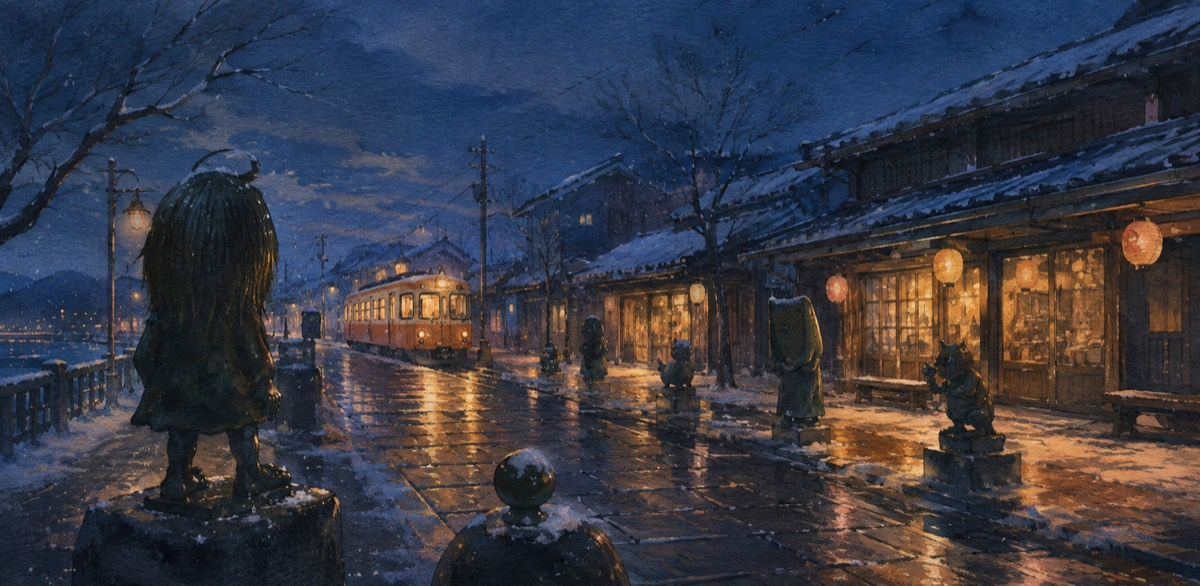
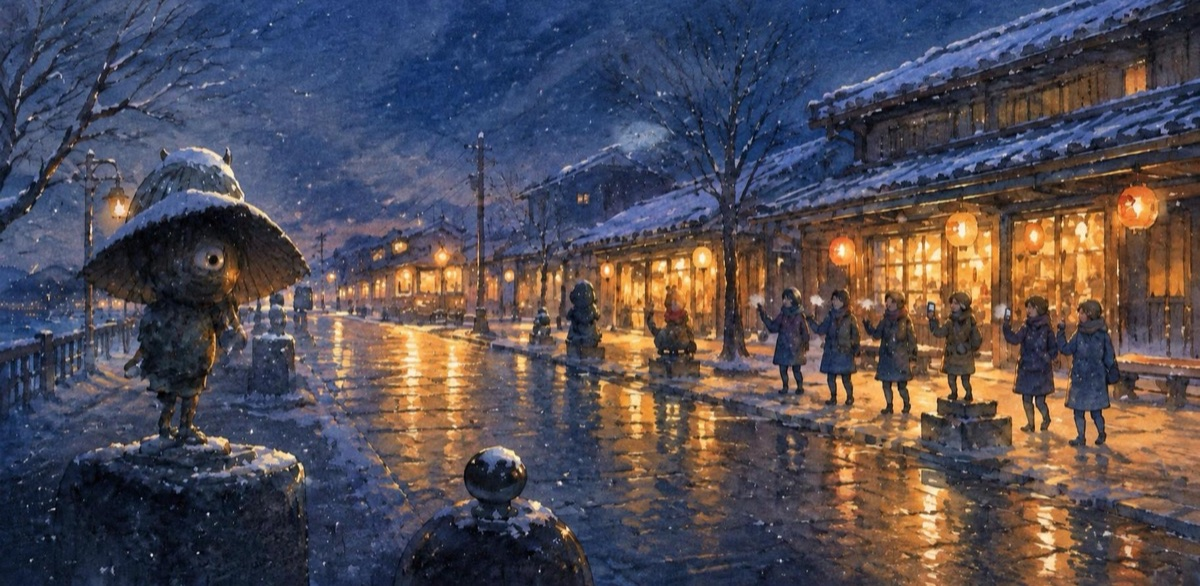
feat: 全部插圖改為旅遊廣告風水彩主視覺
- 主視覺與 Day 1–8 共 9 張以 draw 技能重繪：金色光線、冷暖對比與旅伴情緒瞬間
- Day 2 改為輕裝旅程意象、Day 6 改為比翼入母屋造本殿與長迴廊，對齊現行行程
- Day 1 前景改為原創からかさ小僧銅像；Day 4、Day 7 人物移到右側，避開標題文字
- 尺寸維持原樣，更新替代文字；Day 4 手機裁切位置改為 72%

diff --git a/trip_discussion.html b/trip_discussion.html
@@ -272,7 +272,7 @@
       #day-panel-4 .day4-title { font-size: 2.55rem; }
       #day-panel-4 .day4-stay { max-width: none; }
       #day-panel-4 .day4-hero { aspect-ratio: 4 / 3; margin-bottom: 1rem; }
-      #day-panel-4 .day4-hero img { object-position: 58% center; }
+      #day-panel-4 .day4-hero img { object-position: 72% center; }
       #day-panel-4 .day4-at-a-glance { grid-template-columns: 1fr; gap: 1rem; margin-bottom: 2.1rem; padding: 1rem; }
       #day-panel-4 .day4-timeline { grid-template-columns: repeat(3, minmax(0, 1fr)); }
       #day-panel-4 .day4-moment { min-height: 4.65rem; padding: .45rem .45rem .2rem; border-bottom: 1px solid rgba(16,46,61,.18); }
@@ -395,7 +395,7 @@
 
   <!-- Winter journey hero -->
   <header class="travel-hero">
-    <img class="hero-image" src="assets/sanin-winter-journey-hero-sunlit.jpg" width="1536" height="1024" fetchpriority="high" alt="陽光下，橘色列車沿著積雪山陰海岸行駛，前方是碧海與溫泉聚落">
+    <img class="hero-image" src="assets/sanin-winter-journey-hero-sunlit.jpg" width="1536" height="1024" fetchpriority="high" alt="朝陽金光灑在閃耀的日本海，一列透出暖燈的白色列車沿著積雪海岸前行，遠方是松林沙洲與冒著蒸氣的溫泉小鎮">
     <div class="hero-content">
       <p class="hero-eyebrow">A companion-made winter route · 2027</p>
       <h1 class="hero-title">冬日山陰<br>海之京都・山陽</h1>
@@ -523,7 +523,7 @@
       </section>
 
       <figure class="editorial-hero editorial-reveal editorial-delay-1">
-        <img src="assets/day-illustrations/day-01-sakaiminato-yokai-street.jpg" width="1200" height="586" loading="eager" decoding="async" alt="冬夜積雪的境港妖怪街，暖色街燈、地方列車與妖怪雕像剪影交織在濕亮的石板路上">
+        <img src="assets/day-illustrations/day-01-sakaiminato-yokai-street.jpg" width="1200" height="586" loading="eager" decoding="async" alt="細雪的境港妖怪街冬夜，暖色燈籠映在濕亮石板路上，六位旅伴在妖怪銅像旁笑著拍照">
         <figcaption class="editorial-hero-caption"><p>First night in san'in</p><h3>晚餐後，才是妖怪的時間</h3></figcaption>
       </figure>
 
@@ -792,7 +792,7 @@
       </section>
 
       <figure class="editorial-hero editorial-reveal editorial-delay-1">
-        <img src="assets/day-illustrations/day-02-sanin-rail-journey.jpg" width="1200" height="658" loading="lazy" decoding="async" alt="冬季的山陰海岸旁，一列地方列車駛過雪景車站，旅人提著行李走向月台">
+        <img src="assets/day-illustrations/day-02-sanin-rail-journey.jpg" width="1200" height="658" loading="lazy" decoding="async" alt="黃昏金光下，一列透出暖燈的白色柴油列車駛過日本海沿岸的高架鐵橋，車窗裡的旅伴望向浪花與雪岸">
         <figcaption class="editorial-hero-caption"><p>Railway to kinosaki</p><h3>窗外是冬海，終點是溫泉</h3></figcaption>
       </figure>
 
@@ -1054,7 +1054,7 @@
       </section>
 
       <figure class="day3-hero day3-reveal day3-delay-1">
-        <img src="assets/day-illustrations/day-03-kinosaki-onsen.jpg" width="1200" height="568" loading="lazy" decoding="async" alt="雪夜的城崎溫泉，兩名穿浴衣的旅人在石橋上散步，溫泉蒸氣與旅館燈火映在運河上">
+        <img src="assets/day-illustrations/day-03-kinosaki-onsen.jpg" width="1200" height="568" loading="lazy" decoding="async" alt="雪夜的城崎溫泉，一對撐紅色和傘的浴衣旅人站在石橋上，溫泉蒸氣與旅館燈火映在柳樹運河上">
         <figcaption class="day3-hero-caption"><p>Steam, snow and a slower hour</p><h3>一座湯，就是今天的主角</h3></figcaption>
       </figure>
 
@@ -1327,7 +1327,7 @@
       </section>
 
       <figure class="day4-hero day4-reveal day4-delay-1">
-        <img src="assets/day-illustrations/day-04-amanohashidate.jpg" width="1200" height="600" loading="lazy" decoding="async" alt="從高處眺望雪覆松林的天橋立與靛藍海灣，海上有航行中的小船">
+        <img src="assets/day-illustrations/day-04-amanohashidate.jpg" width="1200" height="600" loading="lazy" decoding="async" alt="從展望台眺望金色光束下的天橋立松林沙洲，兩位旅伴在欄杆邊張開雙臂、彎腰倒看風景">
         <figcaption class="day4-hero-caption"><p>The inland sea, in winter</p><h3>留在天橋立看飛龍觀</h3></figcaption>
       </figure>
 
@@ -1560,7 +1560,7 @@
       </section>
 
       <figure class="editorial-hero editorial-reveal editorial-delay-1">
-        <img src="assets/day-illustrations/day-05-tottori-sand-dunes.jpg" width="1200" height="658" loading="lazy" decoding="async" alt="冬雲下的鳥取砂丘，兩名旅人沿著風紋沙脊前行，雪覆的沙丘延伸到海邊">
+        <img src="assets/day-illustrations/day-05-tottori-sand-dunes.jpg" width="1200" height="658" loading="lazy" decoding="async" alt="雲隙金光灑落的鳥取砂丘，旅伴們登上沙丘稜線、張開雙臂迎風，身後一串腳印延伸到前景">
         <figcaption class="editorial-hero-caption"><p>A white line across the dune</p><h3>入口短走，看見冬日砂丘</h3></figcaption>
       </figure>
 
@@ -1815,7 +1815,7 @@
       </section>
 
       <figure class="editorial-hero editorial-reveal editorial-delay-1">
-        <img src="assets/day-illustrations/day-06-kibitsu-shrine-corridor.jpg" width="1200" height="600" loading="lazy" decoding="async" alt="雪覆庭園旁的吉備津神社本殿與木造長迴廊，旅人沿著石徑前行">
+        <img src="assets/day-illustrations/day-06-kibitsu-shrine-corridor.jpg" width="1200" height="600" loading="lazy" decoding="async" alt="午後金色陽光斜射進吉備津神社向遠方延伸的木造長迴廊，兩位旅伴並肩前行，左側是比翼入母屋造本殿">
         <figcaption class="editorial-hero-caption"><p>Shrine, snow, corridor</p><h3>早餐後，走向吉備津長迴廊</h3></figcaption>
       </figure>
 
@@ -2005,7 +2005,7 @@
       </section>
 
       <figure class="editorial-hero editorial-reveal editorial-delay-1">
-        <img src="assets/day-illustrations/day-07-kurashiki-canal.jpg" width="1200" height="800" loading="lazy" decoding="async" alt="黃昏的倉敷美觀地區運河，白壁倉庫、垂柳與一艘點著燈的小舟倒映在水面">
+        <img src="assets/day-illustrations/day-07-kurashiki-canal.jpg" width="1200" height="800" loading="lazy" decoding="async" alt="晨光下的倉敷美觀地區運河，白壁倉庫與垂柳倒映水面，旅伴們手拿熱飲散步、舉相機拍照">
         <figcaption class="editorial-hero-caption"><p>White walls, still water</p><h3>先看美術館，再散步與採買</h3></figcaption>
       </figure>
 
@@ -2128,7 +2128,7 @@
       </section>
 
       <figure class="editorial-hero editorial-reveal editorial-delay-1">
-        <img src="assets/day-illustrations/day-08-okayama-departure.jpg" width="1200" height="600" loading="lazy" decoding="async" alt="冬日清晨的岡山機場窗前，一只行李箱與風呂敷包裹面向跑道上的飛機">
+        <img src="assets/day-illustrations/day-08-okayama-departure.jpg" width="1200" height="600" loading="lazy" decoding="async" alt="金色斜陽灑進岡山機場候機室，旅伴們並肩望著起飛的客機，身旁是行李箱與風呂敷包裹的伴手禮">
         <figcaption class="editorial-hero-caption"><p>One last look</p><h3>把餘裕，一起帶上飛機</h3></figcaption>
       </figure>
 
